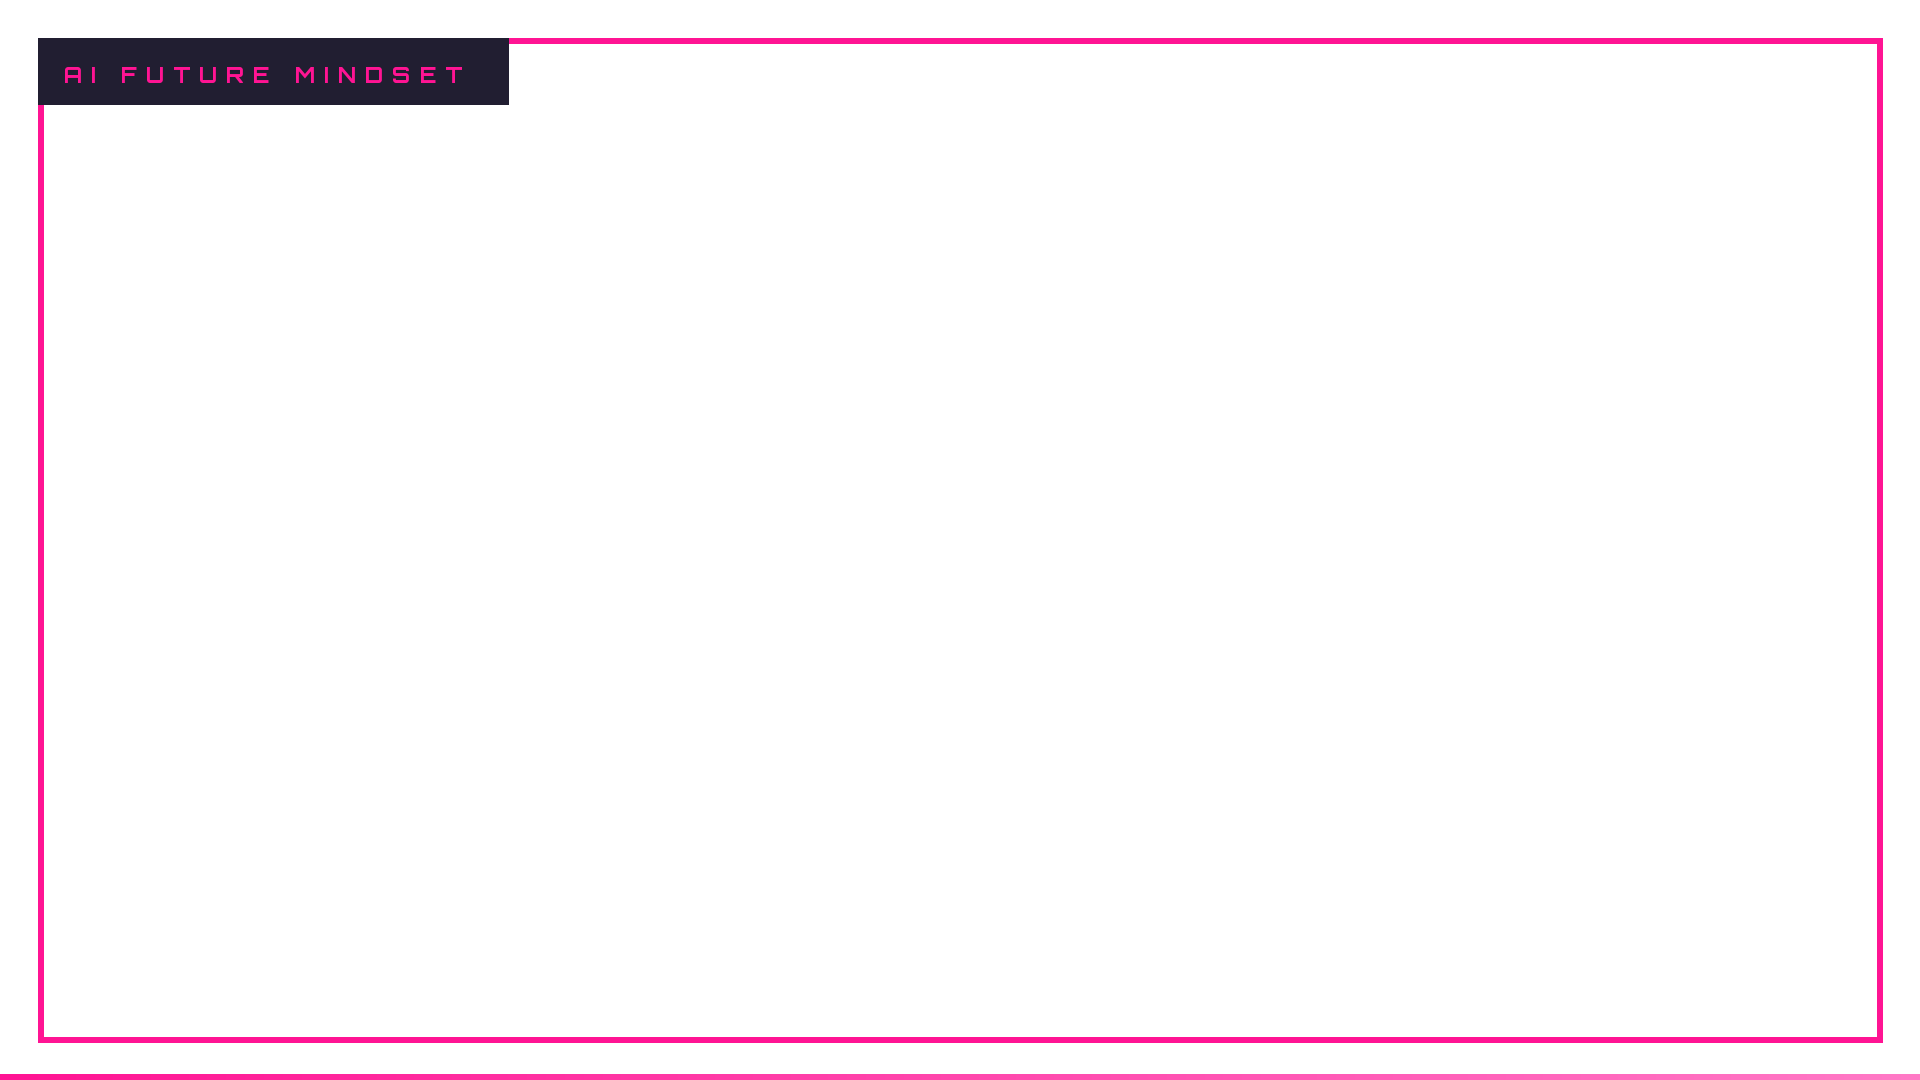
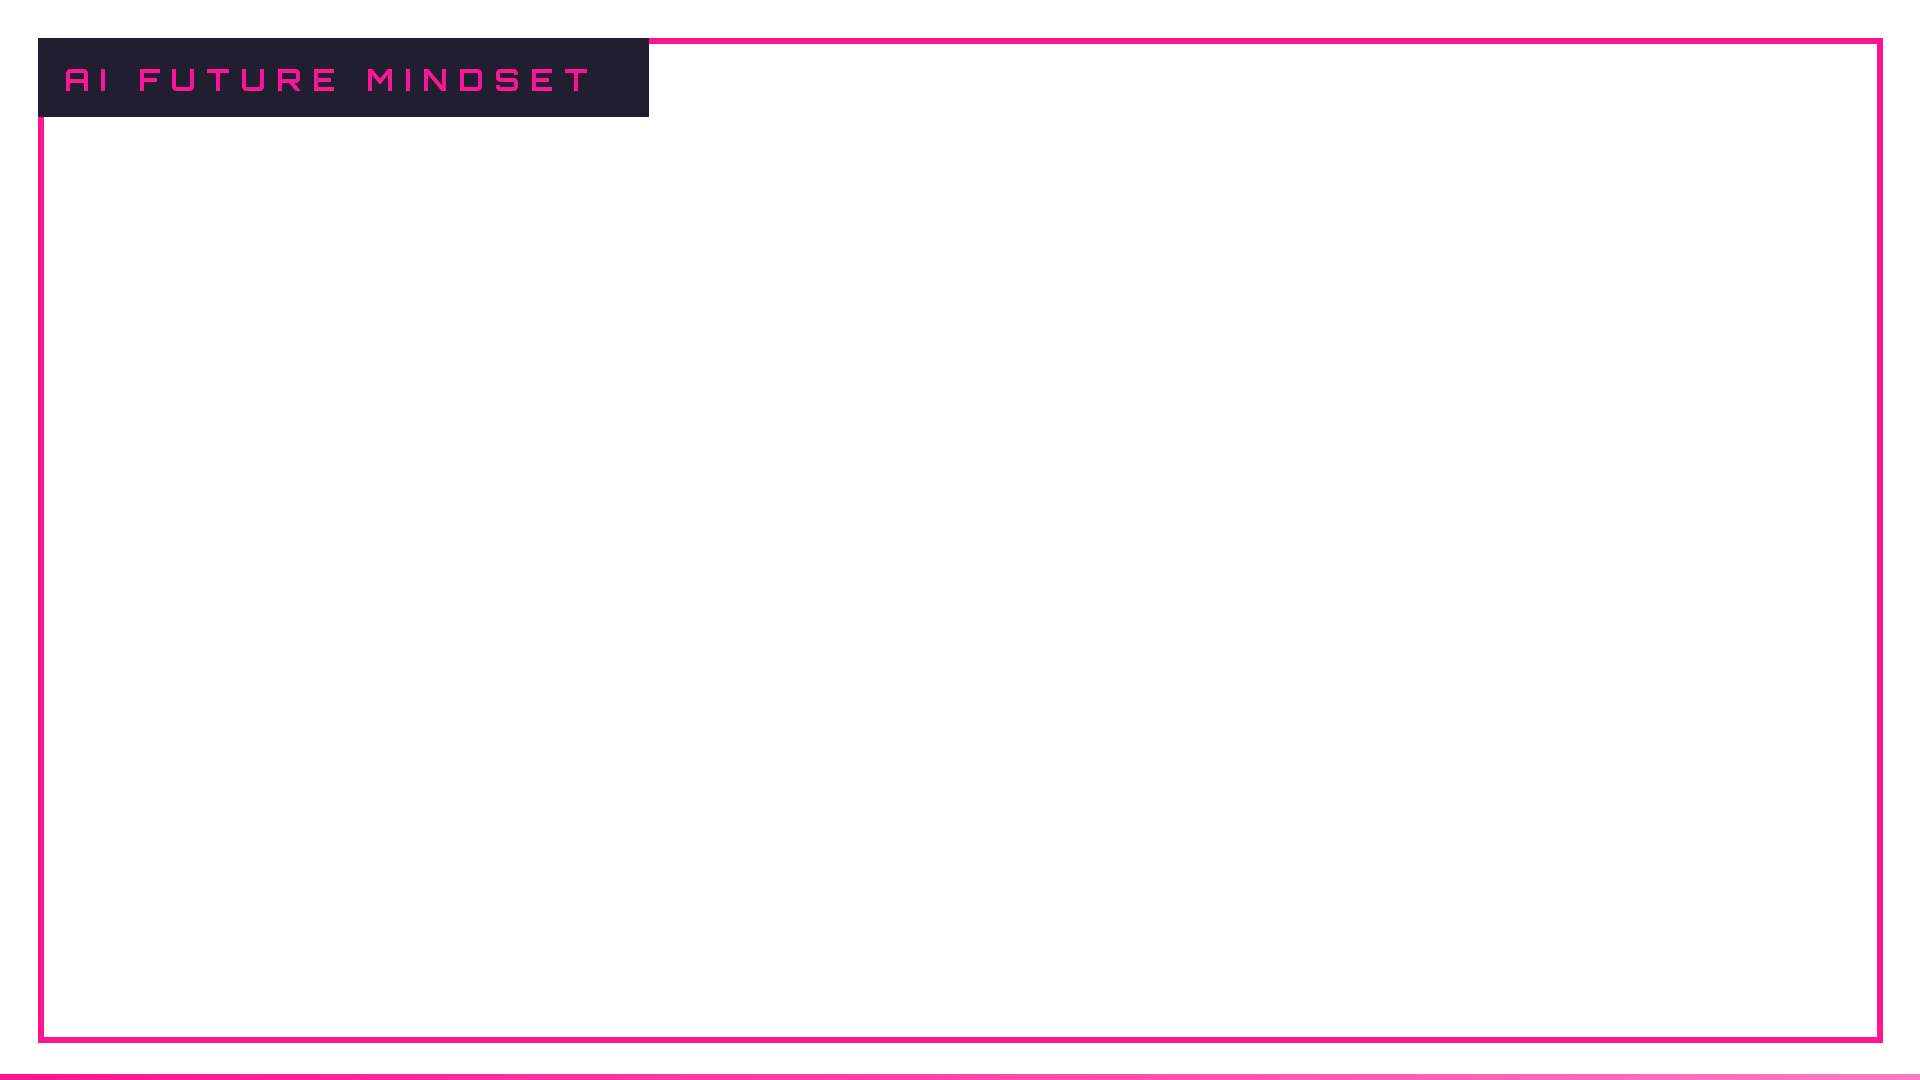
Enlarge the overlay wordmark so it reads on a phone
Seen on a checkerboard the mark was clearly too small: 22px against 1080
lines is about one percent of frame height, illegible on a phone, which
defeats the point of a branding overlay. Now 30px, with the border variant's
plate widened to hold it.

Claude-Session: https://claude.ai/code/session_01UgmEEcg8sJvJ1FPXSeF8U3

Changed region(s): [[0.0, 0.0306, 0.3438, 0.1222]]

diff --git a/skills/module-video/scripts/make_overlays.py b/skills/module-video/scripts/make_overlays.py
@@ -38,7 +38,7 @@ def scaled(w, h):
     return min(w, h) / 1080
 
 
-def wordmark(draw, xy, k, size=22, spacing=9):
+def wordmark(draw, xy, k, size=30, spacing=11):
     c.tracked_text(draw, xy, c.BRAND["wordmark"],
                    c.font(c.BOLD, int(size * k)), rgba(PINK), spacing * k)
 
@@ -85,7 +85,7 @@ def frame_border(w, h):
     draw.rectangle([inset, inset, w - inset, h - inset],
                    outline=rgba(PINK), width=weight)
 
-    plate = (int(470 * k), int(66 * k))
+    plate = (int(610 * k), int(78 * k))
     draw.rectangle([inset, inset, inset + plate[0], inset + plate[1]],
                    fill=rgba(c.BRAND["background"], 235))
     wordmark(draw, (inset + int(26 * k), inset + int(22 * k)), k)
@@ -113,7 +113,7 @@ def lower_third(w, h):
     draw.rectangle([x, y, x + int(10 * k), y + plate_h], fill=rgba(PINK))
     draw.rectangle([x, y + plate_h, x + plate_w, y + plate_h + int(5 * k)],
                    fill=rgba(PINK_SOFT))
-    wordmark(draw, (x + int(38 * k), y + plate_h + int(26 * k)), k, size=18, spacing=7)
+    wordmark(draw, (x + int(38 * k), y + plate_h + int(24 * k)), k, size=24, spacing=9)
     return img
 
 
